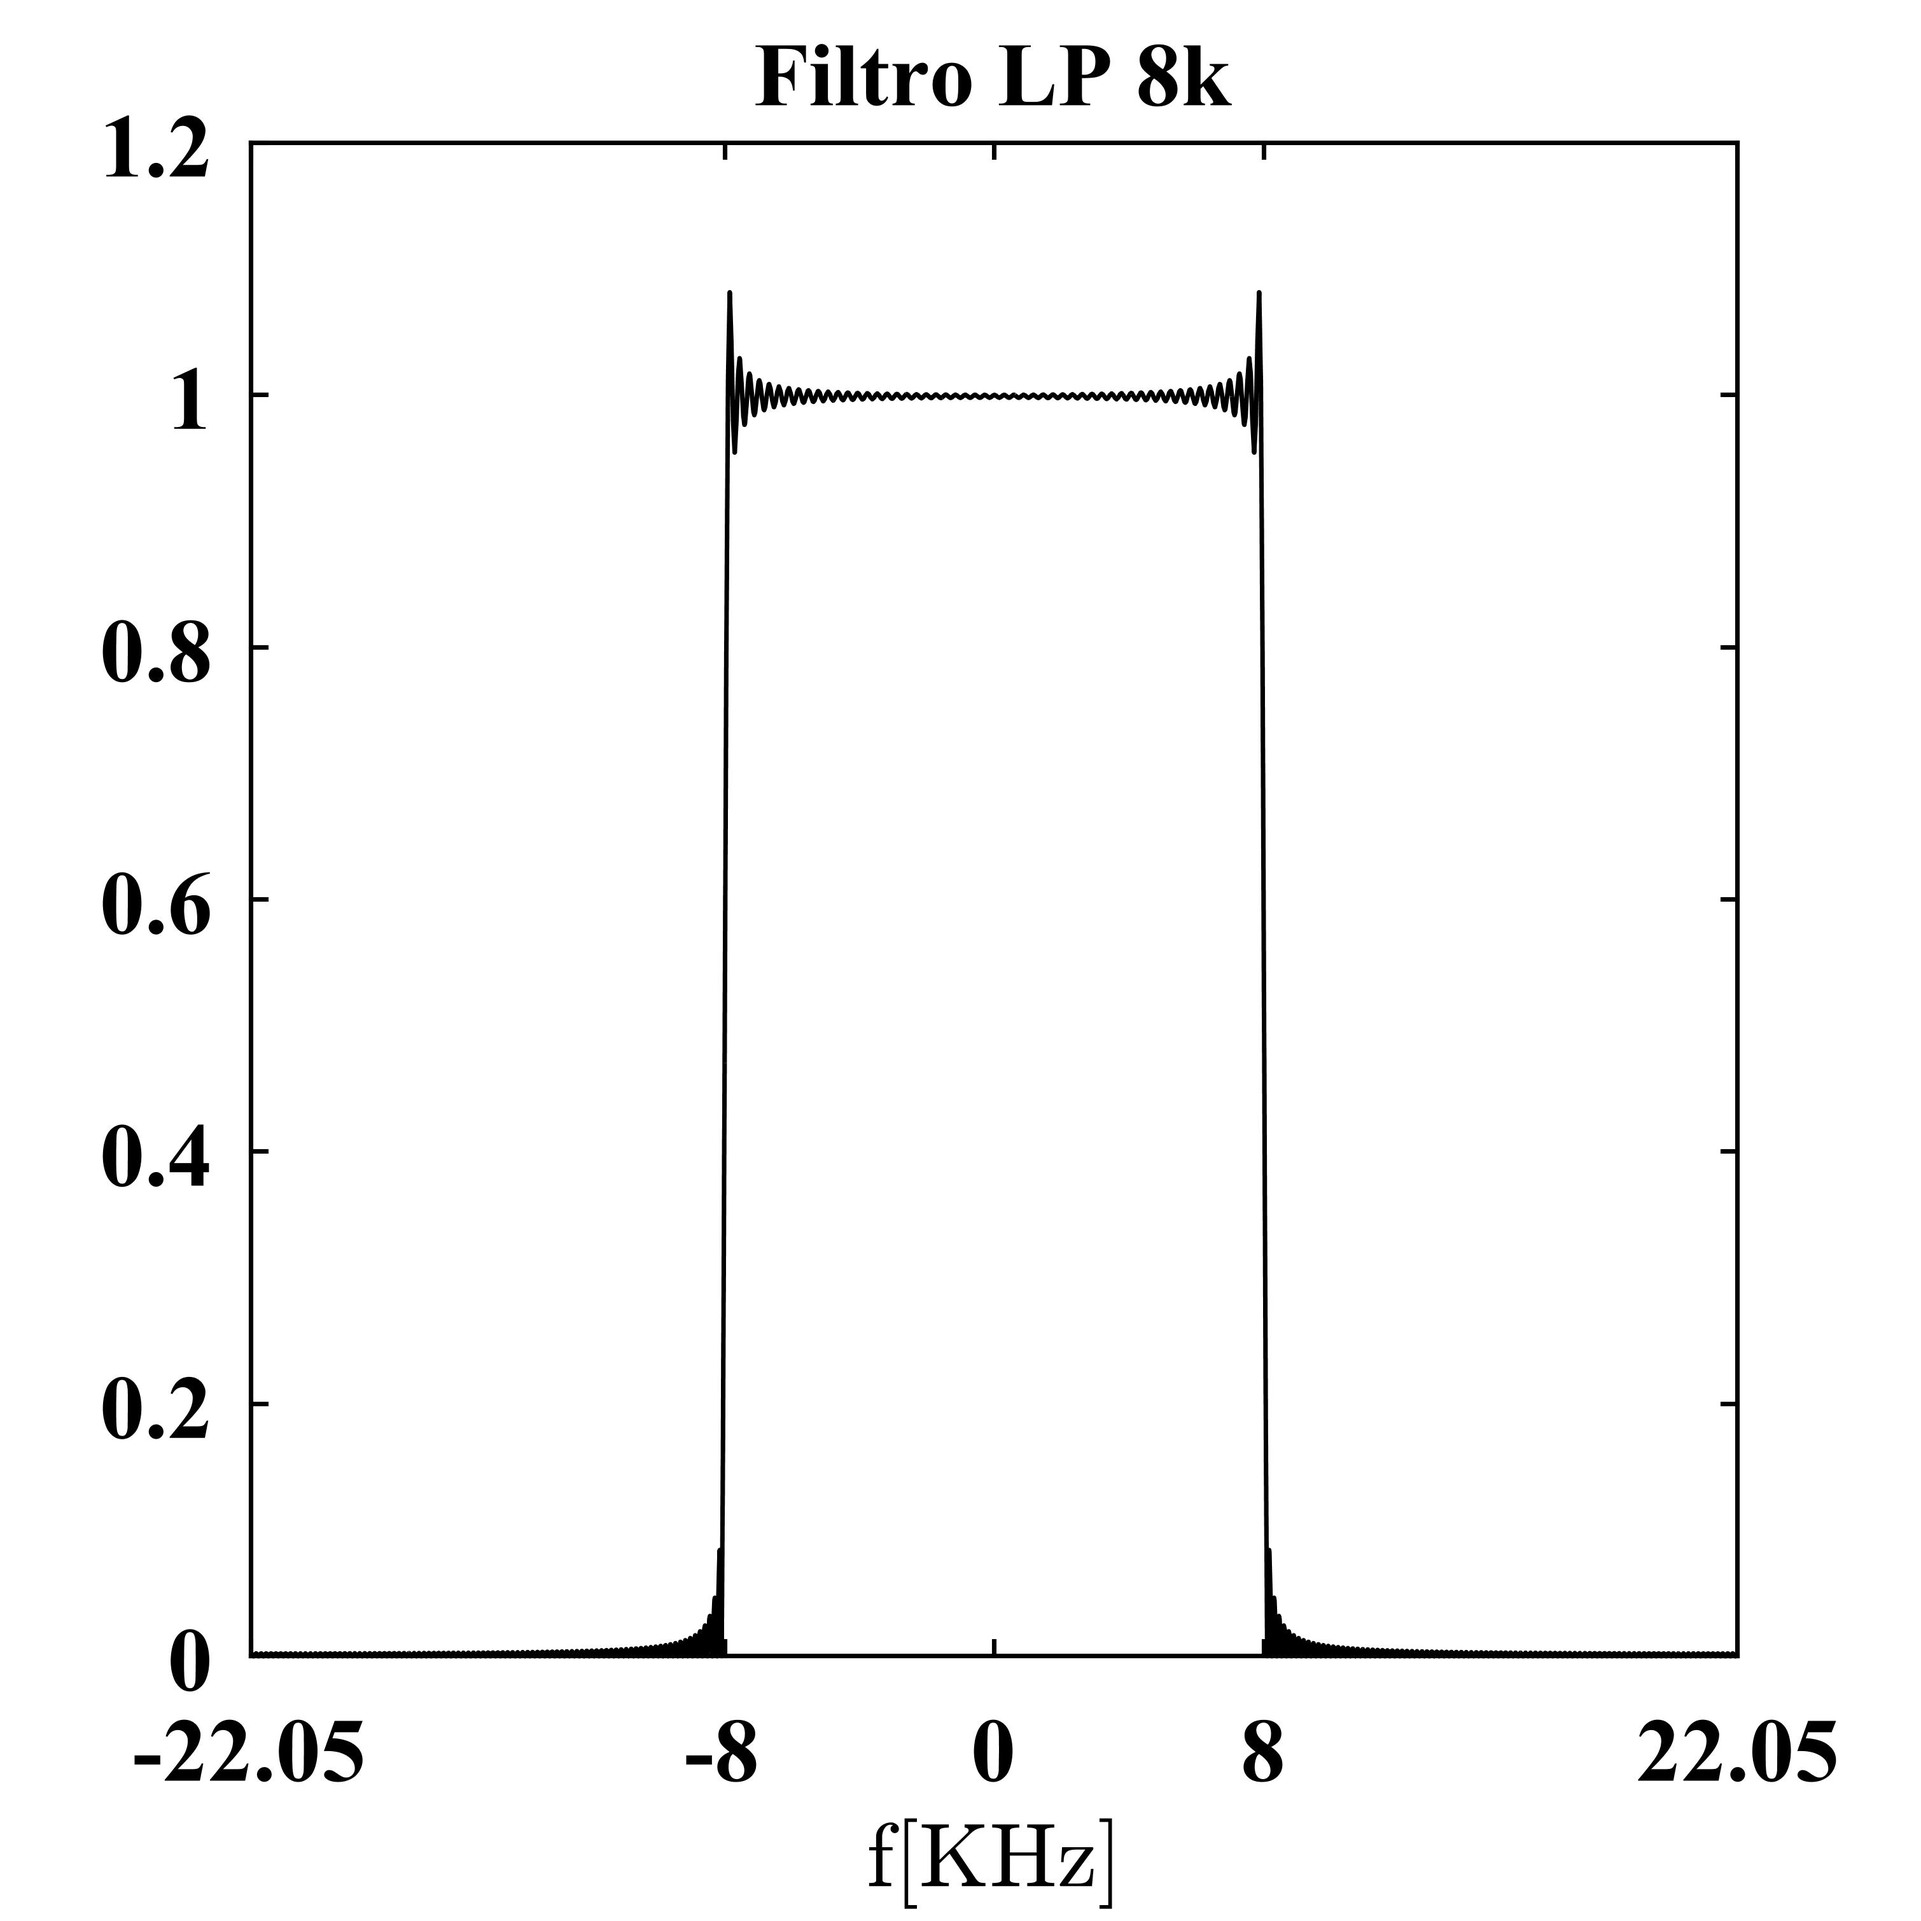
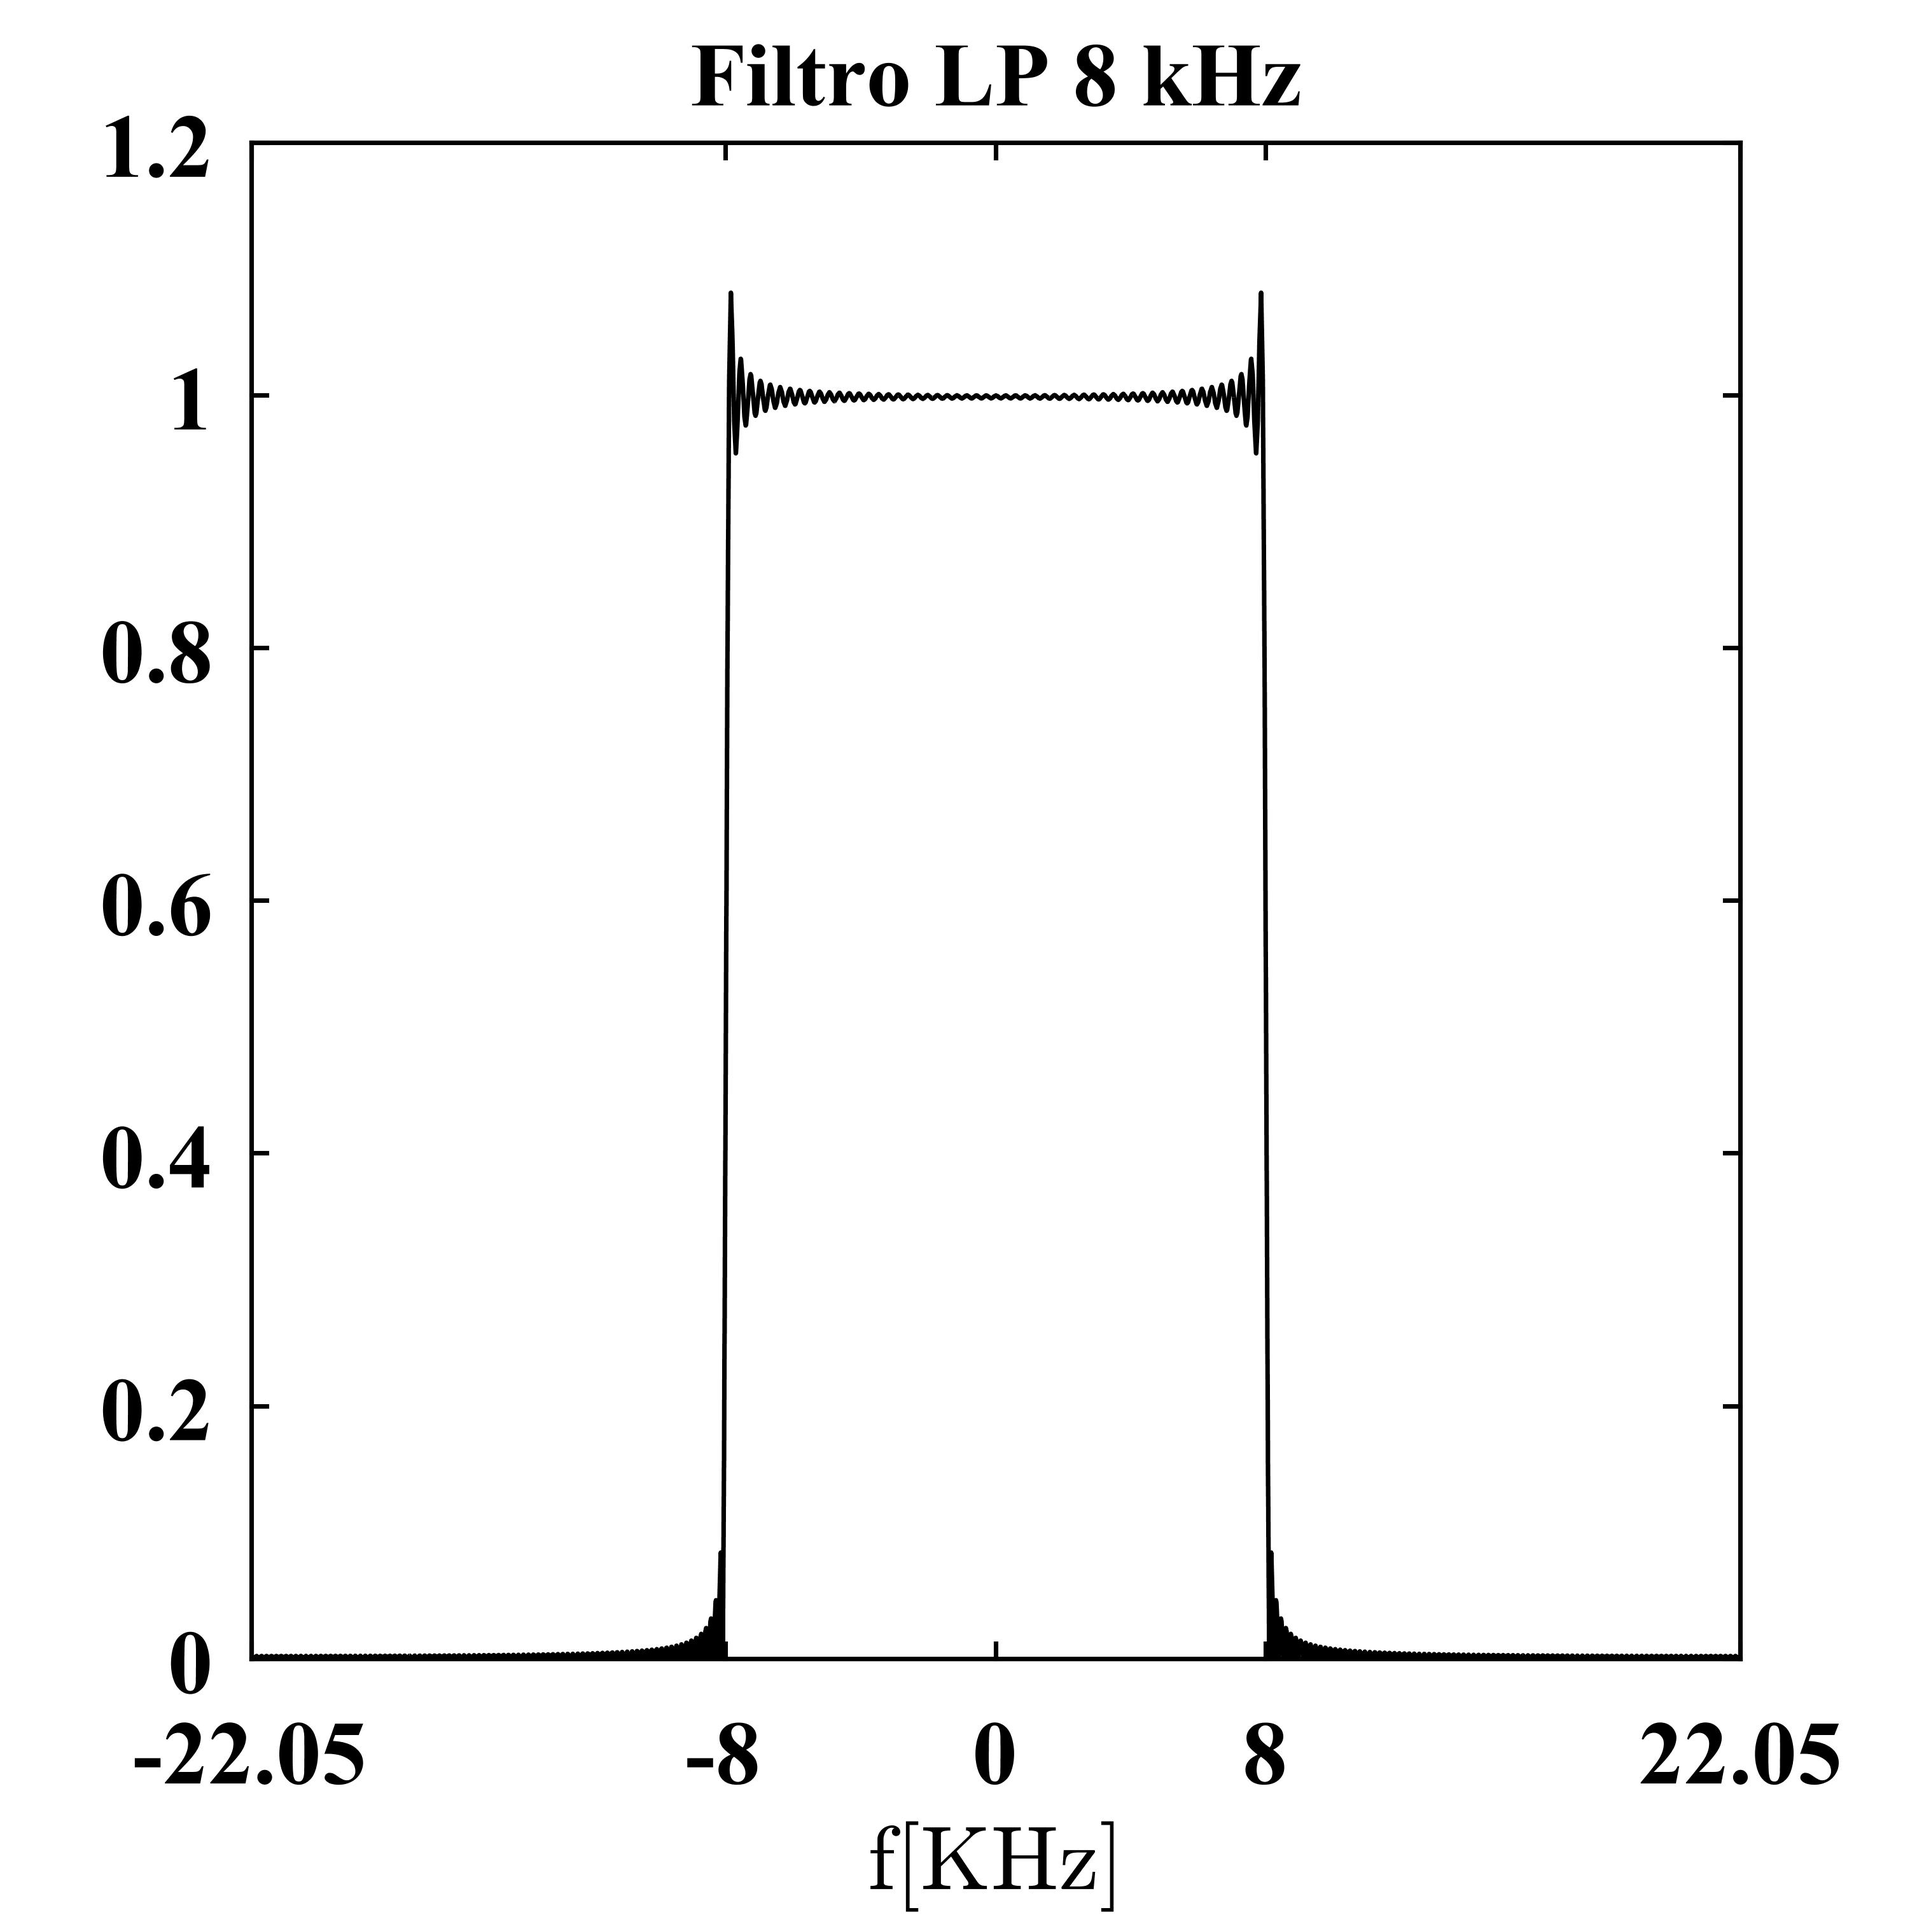
Cambios secundarios

Changed region(s): [[0.3425, 0.0, 0.685, 0.0623]]

diff --git a/pu2_audio2.m b/pu2_audio2.m
@@ -59,7 +59,7 @@ plot_comp_theta(2,"|Z[k]| |_{\theta = \alpha}",thetas_pos, fp, n, Ts, y);
 load('./filtros_audio2/filtroLP_8k.mat');
 x2=filter(LP,z);
 
-plotFiltros(LP, f, fs, [-22.05e3 22.05e3 0 1.2], 'Filtro LP 8k');
+plotFiltros(LP, f, fs, [-22.05e3 22.05e3 0 1.2], 'Filtro LP 8 kHz');
 xticks([-22.05e3, -8e3, 0, 8e3, 22.05e3]);xticklabels({'-22.05', '-8', '0', '8', '22.05'});xlabel("f[KHz]");
 
 X2_s = fft_kit(x2,fs);
